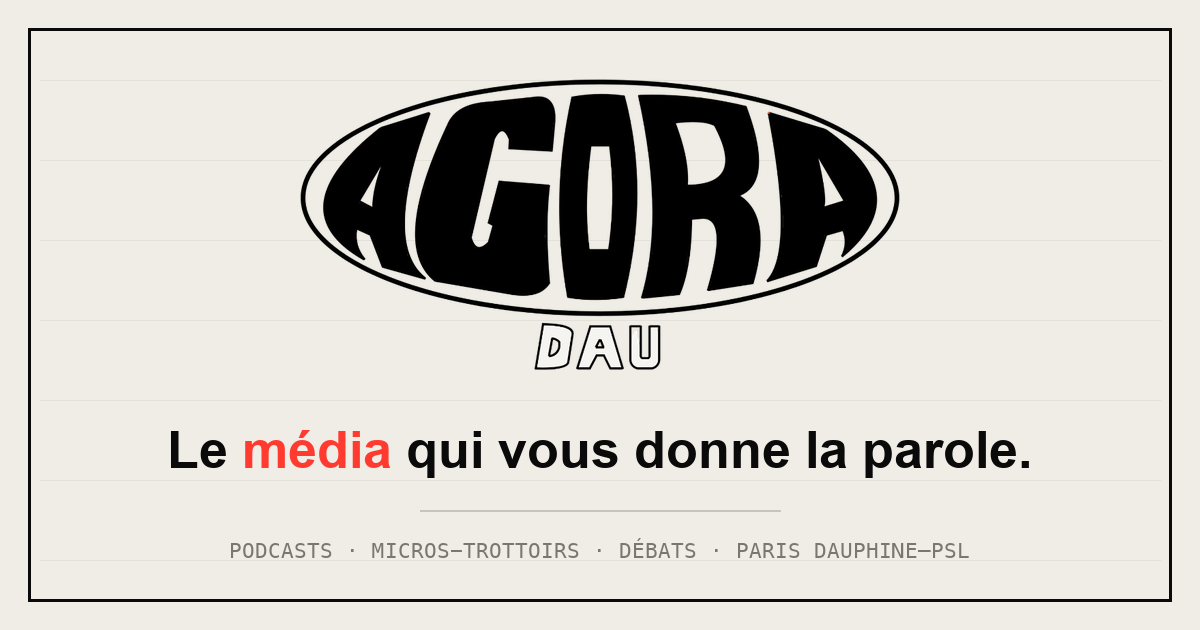
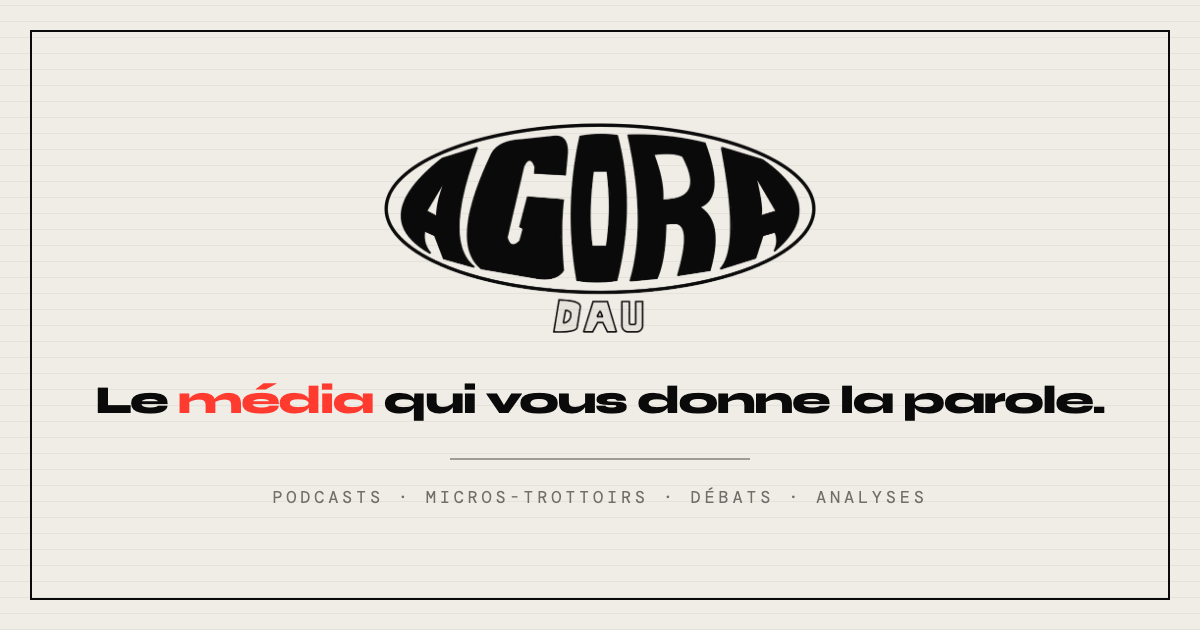
fix(droits): retire toutes les images d'articles du site
Les visuels d'articles n'étaient pas libres de droits. Ils sont supprimés
du dépôt et remplacés par un traitement typographique sobre.

- Carrousel : plus aucun visuel, uniquement rubrique + titre + accroche
- Article « Ils ont volé la nuit » : figure retirée
- Aperçus de partage : nouvelles images typographiques (/og/), créées à
  partir de la charte graphique — aucun contenu tiers
- og-image.png du site refaite (sans la mention Paris Dauphine–PSL)
- Repli automatique sur l'og-image du site si un article n'a pas d'image
- App alignée : plus de vignettes ni de visuel d'en-tête d'article
- 12 visuels + 1 image générée supprimés du dépôt

diff --git a/index.html b/index.html
@@ -472,14 +472,11 @@ footer{background:var(--ink);color:var(--paper);padding:3rem 2.5rem;}
 
 /* PROCHAIN SUJET (featured) */
 .pub-feat{display:grid;grid-template-columns:minmax(0,1fr) minmax(0,1fr);border:1.5px solid var(--ink);background:var(--paper);overflow:hidden;margin-bottom:2.5rem;}
-.pub-feat-media{position:relative;overflow:hidden;aspect-ratio:1/1;}
-.pub-feat-media img{width:100%;height:100%;object-fit:cover;display:block;transition:transform .7s var(--ease);}
-.pub-feat:hover .pub-feat-media img{transform:scale(1.05);}
 .pub-feat-badge{position:absolute;top:1.1rem;left:1.1rem;font-family:var(--mono);font-size:9px;letter-spacing:.18em;text-transform:uppercase;background:var(--yellow);color:var(--ink);padding:5px 13px;border-radius:99px;}
-.pub-feat-body{padding:2.6rem;display:flex;flex-direction:column;justify-content:center;gap:.9rem;min-width:0;}
+.pub-feat-body{padding:3.4rem 3rem;display:flex;flex-direction:column;justify-content:center;gap:1rem;min-width:0;min-height:215px;}
 .pub-feat-kicker{font-family:var(--mono);font-size:10px;letter-spacing:.18em;text-transform:uppercase;color:var(--red);display:flex;align-items:center;gap:.55rem;}
-.pub-feat-title{font-family:var(--display);font-size:clamp(1.3rem,2.4vw,2rem);font-weight:800;letter-spacing:-.03em;line-height:1.04;text-transform:uppercase;overflow-wrap:break-word;}
-.pub-feat-desc{font-size:.93rem;line-height:1.65;color:var(--mist);max-width:42ch;}
+.pub-feat-title{font-family:var(--display);font-size:clamp(1.6rem,3.4vw,2.9rem);font-weight:800;letter-spacing:-.03em;line-height:1.04;text-transform:uppercase;overflow-wrap:break-word;}
+.pub-feat-desc{font-size:.98rem;line-height:1.7;color:var(--mist);max-width:56ch;}
 .pub-more-label{font-family:var(--mono);font-size:9px;letter-spacing:.22em;text-transform:uppercase;color:var(--red);margin-bottom:1.3rem;display:flex;align-items:center;gap:.7rem;}
 .pub-more-label::before{content:"";width:14px;height:1.5px;background:var(--red);}
 .pub-grid{display:grid;grid-template-columns:repeat(4,1fr);gap:1.5px;background:var(--ink);outline:1.5px solid var(--ink);margin-bottom:2.5rem;}
@@ -488,7 +485,7 @@ footer{background:var(--ink);color:var(--paper);padding:3rem 2.5rem;}
 .pub-item:hover img{transform:scale(1.06);}
 .pub-carousel{position:relative;border:1.5px solid var(--ink);overflow:hidden;background:var(--paper);margin-bottom:2.5rem;}
 .pub-track{display:flex;transition:transform .55s var(--ease);}
-.pub-slide{flex:0 0 100%;min-width:0;display:grid;grid-template-columns:minmax(0,1fr) minmax(0,1fr);}
+.pub-slide{flex:0 0 100%;min-width:0;display:block;}
 .pub-bar{display:flex;align-items:center;justify-content:space-between;gap:1rem;padding:.85rem 1.5rem;border-top:1.5px solid var(--ink);}
 .pub-counter{font-family:var(--mono);font-size:9px;letter-spacing:.18em;text-transform:uppercase;color:var(--mist);}
 .pub-counter b{color:var(--red);font-weight:500;}
@@ -498,9 +495,6 @@ footer{background:var(--ink);color:var(--paper);padding:3rem 2.5rem;}
 /* slide publiée (cliquable) */
 .pub-slide--live{position:relative;}
 .pub-overlay{position:absolute;inset:0;z-index:5;}
-.pub-slide--live .pub-feat-media{position:relative;overflow:hidden;}
-.pub-slide--live .pub-feat-media img{transition:transform .7s var(--ease);}
-.pub-slide--live:hover .pub-feat-media img{transform:scale(1.05);}
 .pub-live-dot{width:7px;height:7px;border-radius:50%;background:var(--red);display:inline-block;box-shadow:0 0 0 0 rgba(255,59,48,.55);animation:livepulse 2s var(--ease) infinite;}
 @keyframes livepulse{0%{box-shadow:0 0 0 0 rgba(255,59,48,.55);}70%{box-shadow:0 0 0 8px rgba(255,59,48,0);}100%{box-shadow:0 0 0 0 rgba(255,59,48,0);}}
 .pub-read{font-family:var(--mono);font-size:10px;letter-spacing:.15em;text-transform:uppercase;color:var(--ink);background:var(--yellow);align-self:flex-start;padding:.55rem 1.1rem;border-radius:99px;margin-top:.4rem;transition:background .22s,color .22s,transform .22s;}
@@ -582,7 +576,6 @@ footer{background:var(--ink);color:var(--paper);padding:3rem 2.5rem;}
   .rj-l{border-bottom:1.5px solid var(--ink);position:static;padding:3rem 1.4rem;}
   .rj-r{border-left:none;padding:2rem 1.4rem 3rem;}
   .pub-feat{grid-template-columns:minmax(0,1fr);}
-  .pub-slide{grid-template-columns:minmax(0,1fr);}
   .pub-feat-body{padding:2rem 1.5rem;}
   .sec{padding:4rem 1.5rem;}
   #voix,#participer{padding:4rem 1.5rem;}
@@ -747,7 +740,6 @@ footer{background:var(--ink);color:var(--paper);padding:3rem 2.5rem;}
   <div class="pub-carousel rv" id="pubCarousel">
     <div class="pub-track" id="pubTrack">
       <div class="pub-slide pub-slide--live">
-        <div class="pub-feat-media"><img src="./analyse-fin-sommeil.jpg" alt="Ils ont volé la nuit — analyse d'Agora Dau sur le capitalisme et le sommeil" loading="lazy"/></div>
         <div class="pub-feat-body">
           <p class="pub-feat-kicker"><span class="pub-live-dot"></span>Analyse · En ligne</p>
           <p class="pub-feat-title">Ils ont volé la nuit</p>
@@ -757,7 +749,6 @@ footer{background:var(--ink);color:var(--paper);padding:3rem 2.5rem;}
         <a class="pub-overlay" href="/analyses/ils-ont-vole-la-nuit/" aria-label="Lire l'analyse : Ils ont volé la nuit"></a>
       </div>
       <div class="pub-slide pub-slide--live">
-        <div class="pub-feat-media"><img src="./analyse-colonialisme-vert.jpg" alt="Colonialisme vert — analyse d'Agora Dau" loading="lazy"/></div>
         <div class="pub-feat-body">
           <p class="pub-feat-kicker"><span class="pub-live-dot"></span>Analyse · En ligne</p>
           <p class="pub-feat-title">Colonialisme vert</p>
@@ -767,7 +758,6 @@ footer{background:var(--ink);color:var(--paper);padding:3rem 2.5rem;}
         <a class="pub-overlay" href="/analyses/colonialisme-vert/" aria-label="Lire l'analyse : Colonialisme vert"></a>
       </div>
       <div class="pub-slide pub-slide--live">
-        <div class="pub-feat-media"><img src="./analyse-modele-masculin.jpg" alt="Quand le modèle masculin s'effondre — analyse d'Agora Dau" loading="lazy"/></div>
         <div class="pub-feat-body">
           <p class="pub-feat-kicker"><span class="pub-live-dot"></span>Analyse · En ligne</p>
           <p class="pub-feat-title">Quand le modèle masculin s'effondre</p>
@@ -777,7 +767,6 @@ footer{background:var(--ink);color:var(--paper);padding:3rem 2.5rem;}
         <a class="pub-overlay" href="/analyses/masculinisme/" aria-label="Lire l'analyse : Quand le modèle masculin s'effondre"></a>
       </div>
       <div class="pub-slide">
-        <div class="pub-feat-media"><img src="./analyse-eglise-trump.jpg" alt="L'église qui a fait Trump — analyse à venir d'Agora Dau" loading="lazy"/></div>
         <div class="pub-feat-body">
           <p class="pub-feat-kicker"><span class="fmt-dot"></span>Analyse · À venir</p>
           <p class="pub-feat-title">L'église qui a fait Trump</p>
@@ -785,7 +774,6 @@ footer{background:var(--ink);color:var(--paper);padding:3rem 2.5rem;}
         </div>
       </div>
       <div class="pub-slide">
-        <div class="pub-feat-media"><img src="./analyse-postes-police-pekin.jpg" alt="Les postes de police secrets de Pékin — analyse à venir d'Agora Dau" loading="lazy"/></div>
         <div class="pub-feat-body">
           <p class="pub-feat-kicker"><span class="fmt-dot"></span>Analyse · À venir</p>
           <p class="pub-feat-title">Les postes de police secrets de Pékin</p>
@@ -793,7 +781,6 @@ footer{background:var(--ink);color:var(--paper);padding:3rem 2.5rem;}
         </div>
       </div>
       <div class="pub-slide">
-        <div class="pub-feat-media"><img src="./analyse-fous-par-decret.jpg" alt="Fous par décret — analyse à venir d'Agora Dau" loading="lazy"/></div>
         <div class="pub-feat-body">
           <p class="pub-feat-kicker"><span class="fmt-dot"></span>Analyse · À venir</p>
           <p class="pub-feat-title">Fous par décret</p>
@@ -801,7 +788,6 @@ footer{background:var(--ink);color:var(--paper);padding:3rem 2.5rem;}
         </div>
       </div>
       <div class="pub-slide">
-        <div class="pub-feat-media"><img src="./analyse-lithium.jpg" alt="Propre ici, sale là-bas : l'envers du lithium — analyse à venir d'Agora Dau" loading="lazy"/></div>
         <div class="pub-feat-body">
           <p class="pub-feat-kicker"><span class="fmt-dot"></span>Analyse · À venir</p>
           <p class="pub-feat-title">Propre ici, sale là-bas</p>
@@ -809,7 +795,6 @@ footer{background:var(--ink);color:var(--paper);padding:3rem 2.5rem;}
         </div>
       </div>
       <div class="pub-slide">
-        <div class="pub-feat-media"><img src="./analyse-pegasus.jpg" alt="Pegasus, l'État contre ses propres citoyens — analyse à venir d'Agora Dau" loading="lazy"/></div>
         <div class="pub-feat-body">
           <p class="pub-feat-kicker"><span class="fmt-dot"></span>Analyse · À venir</p>
           <p class="pub-feat-title">Pegasus — l'État contre ses citoyens</p>
@@ -817,7 +802,6 @@ footer{background:var(--ink);color:var(--paper);padding:3rem 2.5rem;}
         </div>
       </div>
       <div class="pub-slide">
-        <div class="pub-feat-media"><img src="./analyse-realite-fox.jpg" alt="La réalité version Fox — analyse à venir d'Agora Dau" loading="lazy"/></div>
         <div class="pub-feat-body">
           <p class="pub-feat-kicker"><span class="fmt-dot"></span>Analyse · À venir</p>
           <p class="pub-feat-title">La réalité, version Fox</p>
@@ -825,7 +809,6 @@ footer{background:var(--ink);color:var(--paper);padding:3rem 2.5rem;}
         </div>
       </div>
       <div class="pub-slide">
-        <div class="pub-feat-media"><img src="./analyse-marche-dependance.jpg" alt="Le marché de la dépendance — analyse à venir d'Agora Dau" loading="lazy"/></div>
         <div class="pub-feat-body">
           <p class="pub-feat-kicker"><span class="fmt-dot"></span>Analyse · À venir</p>
           <p class="pub-feat-title">Le marché de la dépendance</p>
@@ -833,7 +816,6 @@ footer{background:var(--ink);color:var(--paper);padding:3rem 2.5rem;}
         </div>
       </div>
       <div class="pub-slide">
-        <div class="pub-feat-media"><img src="./analyse-algorithme-haine.jpg" alt="L'algorithme de la haine : YouTube, TikTok, Facebook — analyse à venir d'Agora Dau" loading="lazy"/></div>
         <div class="pub-feat-body">
           <p class="pub-feat-kicker"><span class="fmt-dot"></span>Analyse · À venir</p>
           <p class="pub-feat-title">L'algorithme de la haine</p>

diff --git a/_layouts/analyse.html b/_layouts/analyse.html
@@ -23,9 +23,9 @@
 <meta property="og:title" content="{{ page.title }}"/>
 <meta property="og:description" content="{{ page.og_description | default: page.dek }}"/>
 <meta property="og:url" content="{{ site.url }}{{ page.url }}"/>
-<meta property="og:image" content="{{ site.url }}{{ page.cover }}"/>
-<meta property="og:image:width" content="1080"/>
-<meta property="og:image:height" content="1080"/>
+<meta property="og:image" content="{{ site.url }}{{ page.cover | default: '/og-image.png' }}"/>
+<meta property="og:image:width" content="1200"/>
+<meta property="og:image:height" content="630"/>
 <meta property="og:image:alt" content="{{ page.title }} — analyse Agora Dau"/>
 <meta property="og:locale" content="fr_FR"/>
 <meta property="article:published_time" content="{{ page.date | date: '%Y-%m-%d' }}"/>
@@ -37,7 +37,7 @@
 <meta name="twitter:card" content="summary_large_image"/>
 <meta name="twitter:title" content="{{ page.title }}"/>
 <meta name="twitter:description" content="{{ page.og_description | default: page.dek }}"/>
-<meta name="twitter:image" content="{{ site.url }}{{ page.cover }}"/>
+<meta name="twitter:image" content="{{ site.url }}{{ page.cover | default: '/og-image.png' }}"/>
 
 <!-- Données structurées (Google) -->
 <script type="application/ld+json">
@@ -46,7 +46,7 @@
   "@type": "NewsArticle",
   "headline": {{ page.title | jsonify }},
   "alternativeHeadline": {{ page.dek | jsonify }},
-  "image": ["{{ site.url }}{{ page.cover }}"],
+  "image": ["{{ site.url }}{{ page.cover | default: '/og-image.png' }}"],
   "datePublished": "{{ page.date | date: '%Y-%m-%d' }}",
   "dateModified": "{{ page.date | date: '%Y-%m-%d' }}",
   "inLanguage": "fr-FR",

diff --git a/app/app.js b/app/app.js
@@ -257,7 +257,6 @@
      ========================================================= */
   function analysisRow(a) {
     return '<a class="row" href="#/a/' + esc(a.slug) + '">' +
-      '<img class="row-img" src="' + esc(a.cover) + '" alt="" loading="lazy"/>' +
       '<div class="row-b">' +
         '<p class="row-k">' + esc(a.kicker || 'Analyse') + '</p>' +
         '<p class="row-t">' + esc(a.title) + '</p>' +
@@ -282,10 +281,8 @@
 
     if (a) {
       h += '<a class="feat" href="#/a/' + esc(a.slug) + '">' +
-        '<div class="feat-media"><img src="' + esc(a.cover) + '" alt=""/>' +
-          '<span class="feat-badge"><i></i>Dernière analyse</span></div>' +
         '<div class="feat-body">' +
-          '<p class="feat-kick">' + esc(a.kicker || 'Analyse') + '</p>' +
+          '<p class="feat-kick"><i class="feat-dot"></i>' + esc(a.kicker || 'Analyse') + '</p>' +
           '<h3 class="feat-t">' + esc(a.title) + '</h3>' +
           '<p class="feat-d">' + esc(a.dek || '') + '</p>' +
           '<p class="feat-meta"><b>' + esc(a.author || '') + '</b><span></span>' +
@@ -459,7 +456,6 @@
     if (!a) { v.innerHTML = '<div class="empty"><h3>Analyse introuvable</h3></div>'; return; }
 
     let h = '<div class="rd-prog" id="rdProg"></div>';
-    h += '<div class="rd-hero"><img src="' + esc(a.cover) + '" alt=""/></div>';
     h += '<div class="rd-head">' +
       '<p class="rd-kick">' + esc(a.kicker || 'Analyse') + '</p>' +
       '<h1 class="rd-t">' + esc(a.title_display || a.title) + '</h1>' +

diff --git a/app/app.css b/app/app.css
@@ -148,8 +148,9 @@ main{
 }
 .feat-badge i{width:5px;height:5px;border-radius:50%;background:var(--red);animation:blip 2.4s ease-in-out infinite;}
 @keyframes blip{0%,100%{opacity:1;}50%{opacity:.25;}}
-.feat-body{padding:1.15rem 1.1rem 1.25rem;border-top:1.5px solid var(--line);}
-.feat-kick{font-family:var(--mono);font-size:9px;letter-spacing:.14em;text-transform:uppercase;color:var(--red);}
+.feat-body{padding:1.5rem 1.25rem 1.6rem;}
+.feat-kick{font-family:var(--mono);font-size:9px;letter-spacing:.14em;text-transform:uppercase;color:var(--red);display:flex;align-items:center;gap:.5rem;}
+.feat-dot{width:6px;height:6px;border-radius:50%;background:var(--red);flex-shrink:0;font-style:normal;animation:blip 2.4s ease-in-out infinite;}
 .feat-t{font-family:var(--display);font-weight:800;font-size:1.72rem;line-height:1.02;letter-spacing:-.04em;text-transform:uppercase;margin:.55rem 0 .5rem;}
 .feat-d{font-size:.92rem;line-height:1.6;color:var(--dim);}
 .feat-meta{display:flex;align-items:center;gap:.55rem;margin-top:.95rem;font-family:var(--mono);font-size:9px;letter-spacing:.11em;text-transform:uppercase;color:var(--dim);}

diff --git a/app/index.html b/app/index.html
@@ -32,7 +32,7 @@ sitemap: false
 <link rel="preconnect" href="https://fonts.googleapis.com"/>
 <link rel="preconnect" href="https://fonts.gstatic.com" crossorigin/>
 <link href="https://fonts.googleapis.com/css2?family=Syne:wght@400;700;800&family=DM+Mono:wght@300;400;500&family=DM+Sans:ital,wght@0,300;0,400;0,500;1,400&display=swap" rel="stylesheet"/>
-<link rel="stylesheet" href="/app/app.css?v=2"/>
+<link rel="stylesheet" href="/app/app.css?v=3"/>
 <script>
   (function(){try{
     var p=JSON.parse(localStorage.getItem('agora.theme')||'"system"');
@@ -185,6 +185,6 @@ sitemap: false
 }
 </script>
 
-<script src="/app/app.js?v=2"></script>
+<script src="/app/app.js?v=3"></script>
 </body>
 </html>

diff --git a/app/sw.js b/app/sw.js
@@ -1,14 +1,14 @@
 /* Agora — service worker
    Coquille de l'app en cache + contenus consultés disponibles hors connexion. */
 
-const VERSION = 'agora-v2';
+const VERSION = 'agora-v3';
 const SHELL = VERSION + '-shell';
 const RUNTIME = VERSION + '-runtime';
 
 const PRECACHE = [
   '/app/',
-  '/app/app.css?v=2',
-  '/app/app.js?v=2',
+  '/app/app.css?v=3',
+  '/app/app.js?v=3',
   '/app/manifest.webmanifest',
   '/app/icon-192.png',
   '/app/icon-512.png'

diff --git a/_analyses/ils-ont-vole-la-nuit.md b/_analyses/ils-ont-vole-la-nuit.md
@@ -8,7 +8,7 @@ author: Théo Guéry
 date: 2026-06-19
 date_display: Juin 2026
 reading_time: ≈ 13 min de lecture
-cover: /media/chatgpt-image-19-juin-2026-152624.png
+cover: /og/ils-ont-vole-la-nuit.png
 description: "Du dorveille médiéval aux algorithmes de Netflix : comment le
   capitalisme a colonisé la nuit, fragmenté le sommeil et privatisé notre repos.
   Une analyse Agora Dau."
@@ -162,10 +162,6 @@ Deux philosophes permettent de mesurer l'ancienneté de ce mépris. John Locke, 
 ## La fabrique de l'insomnie
 
 Un tableau de 1782 résume mieux que n'importe quel traité ce qui s'est passé. Joseph Wright of Derby a peint *Les filatures de coton d'Arkwright, la nuit*. Une usine illuminée sous un clair de lune, ses fenêtres brillant d'une lumière artificielle qui concurrence les étoiles. On présente souvent cette image, reproduite dans des dizaines de manuels d'histoire économique, comme une célébration du progrès industriel. Crary y lit autre chose : l'annonce d'un temps abstrait, détaché des cycles naturels, où la production peut théoriquement ne jamais s'arrêter. La lune est encore là dans le tableau. Mais elle a déjà perdu.
-
-![Les filatures de coton d'Arkwright la nuit, peinture de Joseph Wright of Derby (vers 1782-83)](/analyse-nuit-filature-wright.jpg)
-
-*Les filatures de coton d'Arkwright, la nuit — Joseph Wright of Derby, vers 1782-83. L'usine illuminée rivalise avec le clair de lune : la première image d'un monde où la production ne s'arrête plus jamais. Huile sur toile · Domaine public — via WikiArt*
 
 Ce temps abstrait, Crary l'appelle le "temps 24/7". Ce n'est pas une métaphore, c'est une description littérale. Un monde où les marchés ne ferment plus, où les flux d'information ne s'interrompent jamais, où la frontière entre jour et nuit a fini par être dissoute. L'expression "Open 24/7" n'est pas un simple argument commercial. C'est un programme anthropologique : l'être humain comme terminal toujours actif, qui ne se déconnecte jamais vraiment.
 

diff --git a/_analyses/colonialisme-vert.md b/_analyses/colonialisme-vert.md
@@ -9,7 +9,7 @@ author: "Lissa Perrin & Rafael Gomes-Nascimento"
 date: 2026-07-01
 date_display: "Juillet 2026"
 reading_time: "≈ 12 min de lecture"
-cover: /analyse-colonialisme-vert.jpg
+cover: /og/colonialisme-vert.png
 description: "Des parcs naturels africains aux forêts indiennes, comment l'idéal de conservation de la nature — le « colonialisme vert » — sert de prétexte pour expulser des millions d'autochtones. Une analyse d'Agora Dau."
 keywords: ["colonialisme vert", "écologie", "conservation", "Guillaume Blanc", "peuples autochtones", "WWF"]
 tags_meta: ["Écologie", "Colonialisme", "Pouvoir"]

diff --git a/_analyses/masculinisme.md b/_analyses/masculinisme.md
@@ -9,7 +9,7 @@ author: "Oriane Poitrimol & Victoire Guillot"
 date: 2026-08-01
 date_display: "Août 2026"
 reading_time: "≈ 14 min de lecture"
-cover: /analyse-modele-masculin.jpg
+cover: /og/masculinisme.png
 description: "De la panique de la virilité aux influenceurs masculinistes, en passant par Trump et les incels : une analyse des origines, des ressorts et des dangers du masculinisme contemporain. Une analyse d'Agora Dau."
 keywords: ["masculinisme", "féminisme", "virilité", "incels", "red pill", "Ivan Jablonka"]
 tags_meta: ["Genre", "Masculinisme", "Pouvoir"]
